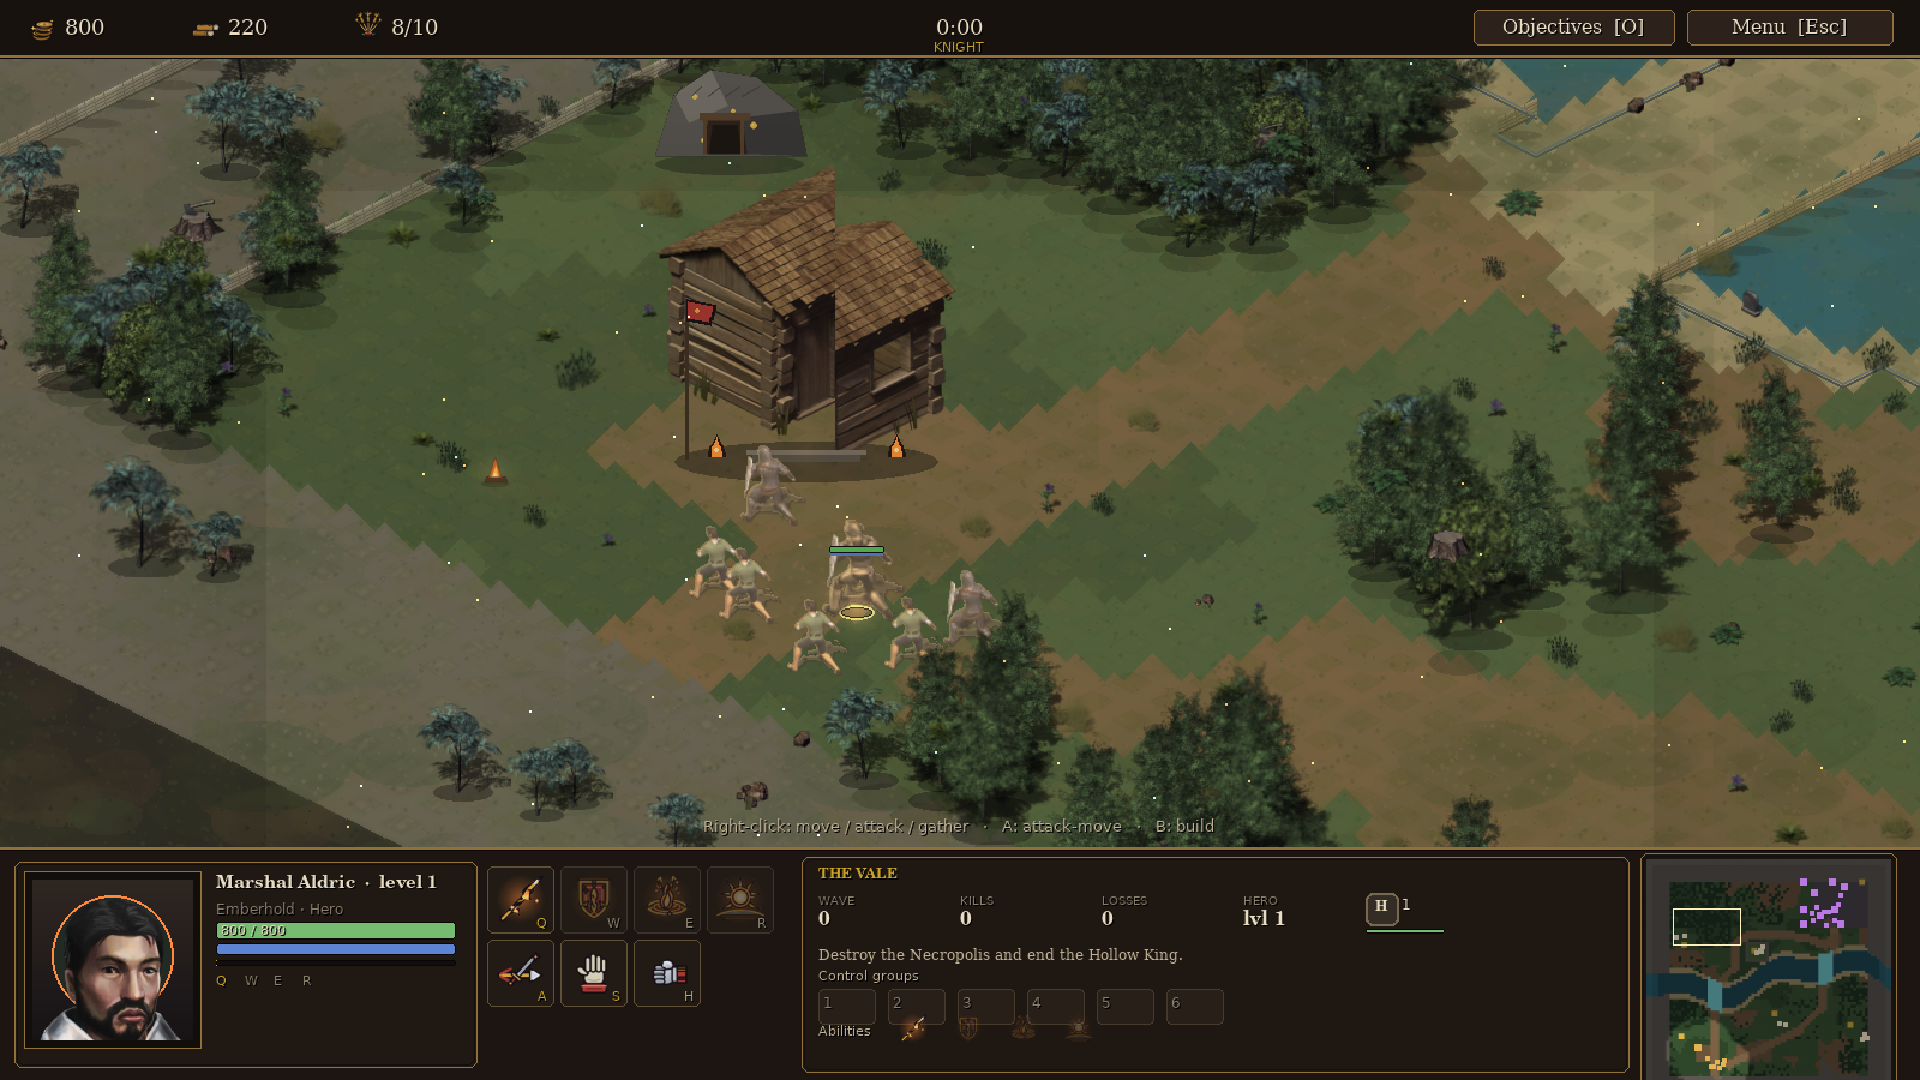
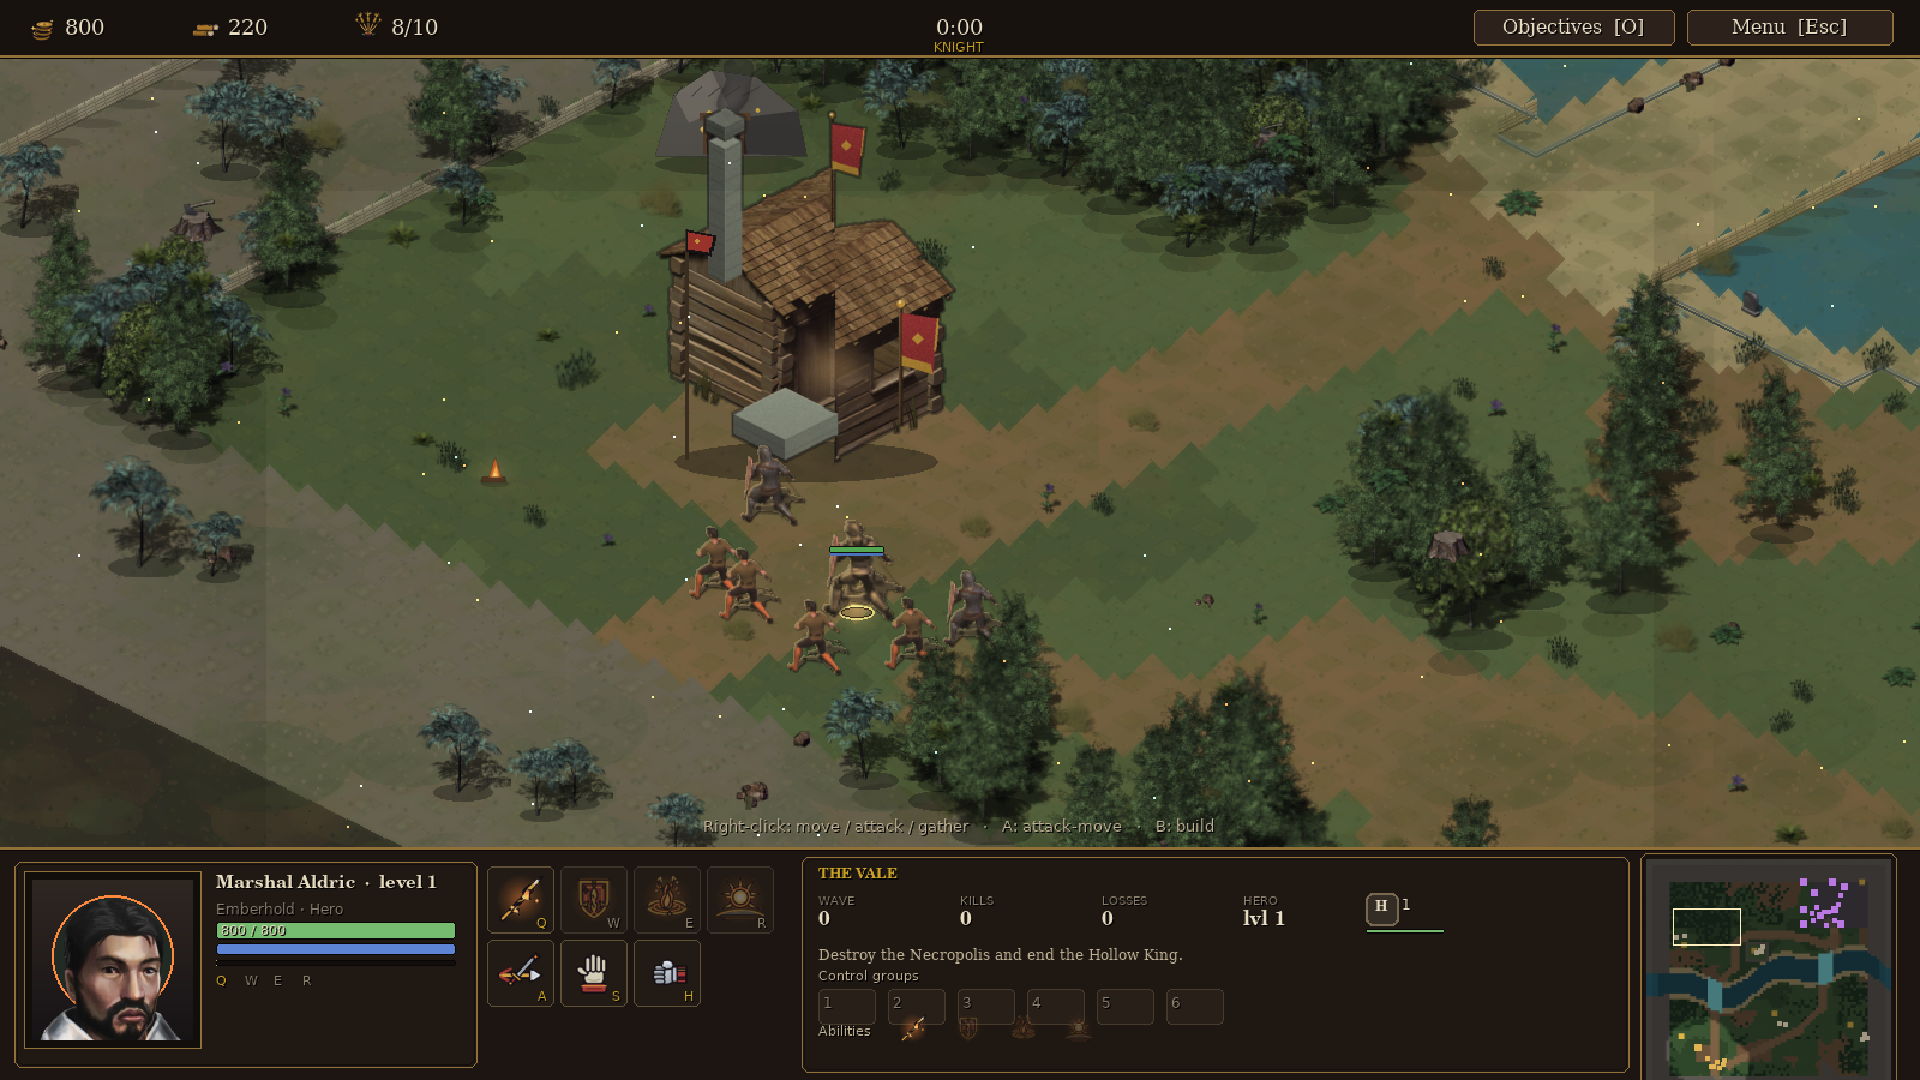
Terrain edge bands, stronger faction cloth, final visual refresh

Changed region(s): [[0.3438, 0.0917, 0.5312, 0.6417]]

diff --git a/emberfall/src/render.py b/emberfall/src/render.py
@@ -178,6 +178,28 @@ class Renderer:
         for y0 in range(0, self.MH, step):
             for x0 in range(0, self.MW, step):
                 s.blit(ov, (x0, y0))
+        # blend hard terrain boundaries with soft colour bands
+        edge = pygame.Surface((self.MW, self.MH), pygame.SRCALPHA)
+        for y in range(m.h):
+            for x in range(m.w):
+                h = m.height[y * m.w + x]
+                t = m.terr(x, y)
+                for dx, dy in ((1, 0), (0, 1)):
+                    nx, ny = x + dx, y + dy
+                    if not m.inb(nx, ny):
+                        continue
+                    nt = m.terr(nx, ny)
+                    if nt == t:
+                        continue
+                    a = (x + 1, y) if dx else (x + 1, y + 1)
+                    b = (x + 1, y + 1) if dx else (x, y + 1)
+                    p1 = (sx(*a) + OX, sy(*a, h) + OY)
+                    p2 = (sx(*b) + OX, sy(*b, h) + OY)
+                    col = self.art.terrain_avg.get(nt, TERRAIN_COL[nt])
+                    if nt == MG.WATER:
+                        col = (148, 128, 88)
+                    pygame.draw.line(edge, (*col, 34), p1, p2, 12)
+        s.blit(edge, (0, 0))
         # warm late-afternoon grade
         s.fill((26, 24, 14), special_flags=pygame.BLEND_RGB_ADD)
         # soften the hard per-tile diamonds into a painted field

diff --git a/emberfall/src/flare_units.py b/emberfall/src/flare_units.py
@@ -55,8 +55,8 @@ TINT = {
     "hero": (1.0, 0.9, 0.62),
 }
 TEAM_TINT = {
-    PLAYER: (1.0, 0.66, 0.55),     # warm ember cloth
-    ENEMY: (0.72, 0.72, 1.0),      # cold violet cloth
+    PLAYER: (1.0, 0.50, 0.34),     # warm ember cloth
+    ENEMY: (0.64, 0.62, 1.0),      # cold violet cloth
     NEUTRAL: (1.0, 1.0, 1.0),
 }
 TEAM_CLOTH = ("cloth_", "leather_", "mage_", "shield", "hood")
